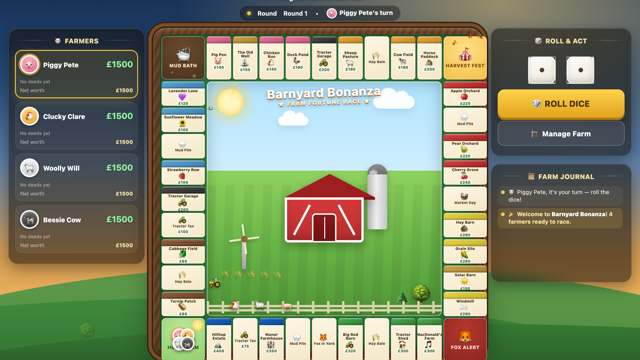
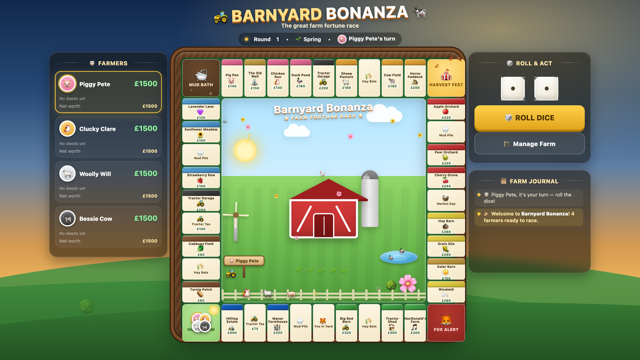
Barnyard Bonanza: seasons, a living centre, deed trading and auctions
These changes were already in the working tree at the start of this session
and are committed here on request; I did not write the diff. Summarised from
reading it:

- The centre of the board becomes a living diorama: a day/night cycle that
  advances each round with a tracking sun, moon, stars and fireflies, and
  seasons that turn every three rounds and change the ground, crops and trees
  (seasonUpdate / currentSeason / seasonChip / seasonFX).
- Owned deeds sprout in the field in the owner's colour with barns stacked on
  them as they develop, and the Barn Pot grows in front of the barn and bursts
  into coins when claimed.
- Event feedback: festival bunting, a lightning flash on the Mud Pile card,
  and a herd stampede on rent of £150+.
- Rules: declining a purchase sends it to auction, barns require a complete
  colour set with the blockers spelled out, and deeds can be traded with a
  rival for cash either way.
- README rewritten to match, cover image refreshed, and the portal blurb in
  assets/games.js updated to mention trading.

Verified only that the page loads with zero JS errors.

diff --git a/games/barnyard-bonanza/index.html b/games/barnyard-bonanza/index.html
@@ -373,6 +373,47 @@ header{position:relative;z-index:2;text-align:center;padding:14px 10px 4px;}
 @keyframes coinBurst{0%{transform:translate(0,0) scale(.4);opacity:0;}
   25%{opacity:1;}100%{transform:translate(var(--dx),var(--dy)) scale(1.15) rotate(var(--rot));opacity:0;}}
 
+/* ---------------- SEASONS ---------------- */
+.cground{position:absolute;left:0;right:0;bottom:0;height:62%;z-index:1;pointer-events:none;
+  transition:background 2.5s ease;}
+#center.season-spring .cground{background:linear-gradient(rgba(150,225,125,.30),rgba(95,185,85,.22));}
+#center.season-summer .cground{background:linear-gradient(rgba(196,228,92,.26),rgba(125,185,62,.20));}
+#center.season-autumn .cground{background:linear-gradient(rgba(216,158,68,.36),rgba(170,118,48,.30));}
+#center.season-winter .cground{background:linear-gradient(rgba(238,247,255,.60),rgba(198,220,242,.48));}
+/* buildings and trees sit above the seasonal ground tint */
+.csilo,.cbarn,.ctree,.ctree2,.cfence{z-index:2;}
+#center.season-winter .cfence{filter:brightness(1.2) saturate(.55);}
+.seasonFX{position:absolute;inset:0;z-index:5;pointer-events:none;overflow:hidden;}
+.seasonBit{position:absolute;top:-18px;font-size:12px;animation:seasonFall linear infinite;}
+@keyframes seasonFall{
+  0%{transform:translate(0,-18px) rotate(0);opacity:0;}
+  10%{opacity:.95;}
+  50%{transform:translate(20px,260px) rotate(200deg);opacity:.95;}
+  100%{transform:translate(-14px,540px) rotate(400deg);opacity:0;}}
+
+/* ---------------- HARVEST FESTIVAL ---------------- */
+.bunting{position:absolute;top:30%;left:-2%;right:-2%;height:24px;z-index:6;pointer-events:none;
+  opacity:0;transition:opacity .5s ease;}
+#center.festival .bunting{opacity:1;}
+.bunting i{position:absolute;width:0;height:0;border-left:7px solid transparent;
+  border-right:7px solid transparent;border-top:16px solid var(--c,#f5c542);
+  transform-origin:50% 0;animation:flagWave 1.7s ease-in-out infinite;}
+@keyframes flagWave{0%,100%{transform:rotate(-7deg);}50%{transform:rotate(7deg);}}
+
+/* ---------------- STAMPEDE ---------------- */
+.stampede{position:absolute;bottom:13%;left:-25%;z-index:7;white-space:nowrap;pointer-events:none;
+  animation:stampedeRun 2.3s ease-in forwards;}
+@keyframes stampedeRun{0%{left:-25%;opacity:0;}10%{opacity:1;}90%{opacity:1;}100%{left:106%;opacity:0;}}
+.stampede span{display:inline-block;font-size:22px;margin-right:7px;
+  filter:drop-shadow(0 3px 3px rgba(0,0,0,.35));animation:gallop .28s ease-in-out infinite;}
+@keyframes gallop{0%,100%{transform:translateY(0) rotate(-2deg);}50%{transform:translateY(-7px) rotate(2deg);}}
+
+/* ---------------- LIGHTNING ---------------- */
+.boltFlash{position:absolute;inset:0;z-index:7;pointer-events:none;opacity:0;
+  background:radial-gradient(120% 80% at 50% 0%,rgba(255,255,255,.95),rgba(190,215,255,.5) 60%,transparent);
+  animation:boltIn .6s ease-out forwards;}
+@keyframes boltIn{0%{opacity:0;}8%{opacity:1;}18%{opacity:.12;}30%{opacity:.8;}100%{opacity:0;}}
+
 /* the valley fills up as farmers buy and build */
 .cplots{position:absolute;inset:0;z-index:2;pointer-events:none;}
 .plot{position:absolute;transform:translateX(-50%);text-align:center;
@@ -803,6 +844,7 @@ header{position:relative;z-index:2;text-align:center;padding:14px 10px 4px;}
   <div class="logo"><span class="em">🚜</span> <span class="b">BARNYARD</span> BONANZA <span class="em">🐄</span></div>
   <div class="tagline">The great farm fortune race</div>
   <div class="statusbar"><span class="dot"></span> Round <span id="roundNum">1</span>
+    &nbsp;•&nbsp; <span id="seasonChip">🌱 Spring</span>
     &nbsp;•&nbsp; <span id="turnBanner">Farmer's turn</span></div>
 </header>
 
@@ -979,7 +1021,35 @@ const SND = {
     [523,659,784,1047,784,1047,1319].forEach((n,i)=>tone('square',n,0.24,t+i*0.16,0.2)); },
   step(){ if(muted)return; const c=ac();if(!c)return; tone('sine',420,0.05,c.currentTime,0.06); },
   thud(){ if(muted)return; const c=ac();if(!c)return; const t=c.currentTime;
-    tone('sine',120,0.14,t,0.28,60); }
+    tone('sine',120,0.14,t,0.28,60); },
+  /* filtered noise burst — the basis for thunder and hoofbeats */
+  rumble(dur,peak,fFrom,fTo,gain){ if(muted)return; const c=ac(); if(!c)return; const t=c.currentTime;
+    const buf=c.createBuffer(1,Math.floor(c.sampleRate*dur),c.sampleRate);
+    const d=buf.getChannelData(0);
+    for(let i=0;i<d.length;i++) d[i]=(Math.random()*2-1)*Math.pow(1-i/d.length,1.6);
+    const src=c.createBufferSource(); src.buffer=buf;
+    const f=c.createBiquadFilter(); f.type='lowpass';
+    f.frequency.setValueAtTime(fFrom,t); f.frequency.exponentialRampToValueAtTime(fTo,t+dur);
+    const g=c.createGain(); g.gain.setValueAtTime(0.0001,t);
+    g.gain.exponentialRampToValueAtTime(gain,t+peak);
+    g.gain.exponentialRampToValueAtTime(0.0001,t+dur);
+    src.connect(f); f.connect(g); g.connect(c.destination); src.start(t); src.stop(t+dur); },
+  thunder(){ SND.rumble(1.7,0.05,340,70,0.32); },
+  stampede(){ SND.rumble(1.9,0.35,260,110,0.22); },
+  fanfare(){ if(muted)return; const c=ac();if(!c)return; const t=c.currentTime;
+    [523,659,784,1047].forEach((n,i)=>tone('square',n,0.2,t+i*0.1,0.18));
+    tone('triangle',1319,0.35,t+0.42,0.15); },
+  rooster(){ if(muted)return; const c=ac();if(!c)return; const t=c.currentTime;
+    const o=tone('sawtooth',620,0.22,t,0.18,860); vibrato(o,14,50,t,0.22);
+    const o2=tone('sawtooth',780,0.3,t+0.24,0.16,520); vibrato(o2,10,70,t+0.24,0.3); },
+  owl(){ if(muted)return; const c=ac();if(!c)return; const t=c.currentTime;
+    const o=tone('sine',420,0.26,t,0.16,360); vibrato(o,7,14,t,0.26);
+    const o2=tone('sine',400,0.34,t+0.36,0.14,330); vibrato(o2,6,12,t+0.36,0.34); },
+  crickets(){ if(muted)return; const c=ac();if(!c)return; const t=c.currentTime;
+    for(let i=0;i<5;i++) tone('triangle',2400+Math.random()*300,0.035,t+i*0.13,0.07); },
+  birdsong(){ if(muted)return; const c=ac();if(!c)return; const t=c.currentTime;
+    tone('triangle',1800,0.07,t,0.1,2300); tone('triangle',2200,0.06,t+0.11,0.09,1700);
+    tone('triangle',2000,0.08,t+0.22,0.08,2500); }
 };
 
 
@@ -1095,6 +1165,8 @@ function buildBoard(){
     <div class="cloud c1"></div><div class="cloud c2"></div>
     <div class="cbird">🐦</div><div class="cbird b2">🐦</div>
     <div class="field"></div>
+    <div class="cground"></div>
+    <div class="bunting" id="bunting"></div>
     <div class="ccrops">🌾🌾🌾🌾🌾</div>
     <div class="cwindmill"><div class="hub"></div><div class="blades">
       <div class="blade"></div><div class="blade"></div><div class="blade"></div><div class="blade"></div>
@@ -1114,6 +1186,7 @@ function buildBoard(){
       <span class="critter c1">🐔</span><span class="critter c2">🐑</span><span class="critter c3">🐖</span>
     </div>
     <div class="cfireflies" id="cfireflies"></div>
+    <div class="seasonFX" id="seasonFX"></div>
     <div class="rainLayer" id="rainLayer"></div>
     <div class="sparkleLayer" id="sparkleLayer"></div>
     <div class="cfence"></div>`;
@@ -1271,8 +1344,93 @@ function seedFireflies(){
 function dayNightUpdate(){
   const center=document.getElementById('center'); if(!center)return;
   const phases=['time-day','time-dusk','time-night','time-dawn'];
+  const key=phases[(G_STATE.round-1)%phases.length];
+  const changed=center.dataset.phase!==key;
+  center.dataset.phase=key;
   phases.forEach(c=>center.classList.remove(c));
-  center.classList.add(phases[(G_STATE.round-1)%phases.length]);
+  center.classList.add(key);
+  seasonUpdate();
+  // the farm sounds different at each hour of the day
+  if(changed&&G_STATE.started){
+    if(key==='time-dawn')SND.rooster();
+    else if(key==='time-day')SND.birdsong();
+    else if(key==='time-dusk')SND.crickets();
+    else SND.owl();
+  }
+}
+/* ---- seasons: the field turns over every few rounds ---- */
+const SEASONS=[
+  {key:'spring',name:'Spring',ico:'🌱',crops:'🌱🌱🌱🌱🌱',tree:'🌸',tree2:'🌳',bits:['🌸','🌼'],n:10,dur:[7,11]},
+  {key:'summer',name:'Summer',ico:'☀',crops:'🌻🌻🌻🌻🌻',tree:'🌳',tree2:'🌲',bits:['🦋','✨'],n:6, dur:[9,14]},
+  {key:'autumn',name:'Autumn',ico:'🍂',crops:'🌾🌾🌾🌾🌾',tree:'🍁',tree2:'🌳',bits:['🍂','🍁'],n:12,dur:[6,10]},
+  {key:'winter',name:'Winter',ico:'❄',crops:'⛄',        tree:'🎄',tree2:'🌲',bits:['❄','🌨'],n:14,dur:[8,13]}
+];
+function currentSeason(){ return SEASONS[Math.floor((G_STATE.round-1)/3)%SEASONS.length]; }
+function seasonUpdate(){
+  const center=document.getElementById('center'); if(!center)return;
+  const s=currentSeason();
+  if(center.dataset.season===s.key)return;
+  center.dataset.season=s.key;
+  SEASONS.forEach(x=>center.classList.remove('season-'+x.key));
+  center.classList.add('season-'+s.key);
+  const crops=center.querySelector('.ccrops'); if(crops)crops.textContent=s.crops;
+  const t1=center.querySelector('.ctree'); if(t1)t1.textContent=s.tree;
+  const t2=center.querySelector('.ctree2'); if(t2)t2.textContent=s.tree2;
+  const fx=document.getElementById('seasonFX');
+  if(fx){
+    fx.innerHTML='';
+    for(let i=0;i<s.n;i++){
+      const b=document.createElement('span'); b.className='seasonBit';
+      b.textContent=s.bits[i%s.bits.length];
+      b.style.left=(Math.random()*100)+'%';
+      b.style.fontSize=(9+Math.random()*7).toFixed(1)+'px';
+      b.style.animationDuration=(s.dur[0]+Math.random()*(s.dur[1]-s.dur[0])).toFixed(1)+'s';
+      b.style.animationDelay=(-Math.random()*12).toFixed(1)+'s';
+      fx.appendChild(b);
+    }
+  }
+}
+/* ---- the Harvest Festival takes over the farm ---- */
+function festivalMode(){
+  const center=document.getElementById('center'), bun=document.getElementById('bunting');
+  if(!center||!bun)return;
+  if(!bun.children.length){
+    const cols=['#f5c542','#e8739a','#4caf50','#5ba4cf','#e8a838','#cc4444'];
+    for(let i=0;i<16;i++){
+      const f=document.createElement('i');
+      f.style.left=(i*6.4+1)+'%';
+      f.style.top=(Math.sin(i/15*Math.PI)*-10+10).toFixed(1)+'px';
+      f.style.setProperty('--c',cols[i%cols.length]);
+      f.style.animationDelay=(i*0.08)+'s';
+      bun.appendChild(f);
+    }
+  }
+  center.classList.add('festival');
+  SND.fanfare(); triggerSparkle();
+  setTimeout(()=>center.classList.remove('festival'),5200);
+}
+/* ---- a herd bolts across the farm when big money changes hands ---- */
+function triggerStampede(){
+  const center=document.getElementById('center'); if(!center)return;
+  if(center.querySelector('.stampede'))return;
+  const herd=['🐄','🐑','🐖','🐔','🐴','🐐'];
+  const row=document.createElement('div'); row.className='stampede';
+  const n=4+Math.floor(Math.random()*3);
+  for(let i=0;i<n;i++){
+    const a=document.createElement('span');
+    a.textContent=herd[Math.floor(Math.random()*herd.length)];
+    a.style.animationDelay=(i*0.07)+'s';
+    row.appendChild(a);
+  }
+  center.appendChild(row);
+  SND.stampede();
+  setTimeout(()=>row.remove(),2500);
+}
+function lightningFlash(){
+  const center=document.getElementById('center'); if(!center)return;
+  const b=document.createElement('div'); b.className='boltFlash';
+  center.appendChild(b); SND.thunder();
+  setTimeout(()=>b.remove(),700);
 }
 /* the sun (or moon) tracks across the sky as the farmers take their turns */
 function updateSky(){
@@ -1350,6 +1508,8 @@ function triggerRain(){
     layer.appendChild(d);
   }
   center.classList.add('raining');
+  setTimeout(lightningFlash,700);
+  if(Math.random()<0.6) setTimeout(lightningFlash,1900);
   setTimeout(()=>{ center.classList.remove('raining'); layer.innerHTML=''; },3200);
 }
 function triggerSparkle(){
@@ -1493,7 +1653,9 @@ function logMsg(html,cls){
 }
 function bannerUpdate(){
   const p=curP();
-  document.getElementById('roundNum').textContent='Round '+G_STATE.round;
+  document.getElementById('roundNum').textContent=G_STATE.round;
+  const chip=document.getElementById('seasonChip');
+  if(chip){ const s=currentSeason(); chip.textContent=s.ico+' '+s.name; }
   const banner=document.getElementById('turnBanner');
   if(G_STATE.over){ banner.innerHTML='🏆 Game Over'; return; }
   banner.innerHTML='<span class="tbIco" style="background:'+p.tok.grad+'">'+p.tok.ico+'</span><span class="tbName">'+escapeHtml(p.name)+"'s turn</span>";
@@ -1758,6 +1920,7 @@ function sendToJail(p){
   SND.wahwah(); positionAllTokens(); renderPlayers(); splatMud(10);
 }
 async function harvestFest(p){
+  festivalMode();
   logMsg('🎪 '+escapeHtml(p.name)+' reaches the Harvest Festival.','info');
   if(G_STATE.pot>0){
     const pot=G_STATE.pot; G_STATE.pot=0;
@@ -1776,7 +1939,7 @@ async function marketDay(p){
   }
 }
 async function foxInYard(p){
-  triggerFoxRun();
+  triggerFoxRun(); setTimeout(triggerStampede,450);
   logMsg('🦊 A fox is in the yard! '+escapeHtml(p.name)+' pays every other farmer £25.','bad');
   await showModal('<div class="mTitle">🦊 Fox in the Yard!</div><p>Chaos on the farm! Pay <b>£25</b> to each other farmer.</p>',[{label:'Pay everyone',cls:'red'}]);
   for(const o of G_STATE.players){
@@ -1861,6 +2024,7 @@ async function handleProperty(p,sq){
     if(sq.mortgaged){ logMsg('🏦 '+escapeHtml(sq.name)+' is mortgaged — no rent.','info'); return; }
     if(owner.inJail && sq.type!=='prop'){ /* utilities/garages still charge */ }
     const rent=calcRent(sq,G_STATE.lastRoll);
+    if(rent>=150)triggerStampede();
     logMsg('💵 '+escapeHtml(p.name)+' pays £'+rent+' rent to '+escapeHtml(owner.name)+'.','bad');
     await showModal('<div class="mTitle">💵 Rent Due!</div><p>'+escapeHtml(sq.name)+' belongs to <b>'+escapeHtml(owner.name)+'</b>.<br>Pay rent of <b>£'+rent+'</b>.</p>',[{label:'Pay £'+rent,cls:'red'}]);
     gainMoney(owner,rent);
@@ -2150,16 +2314,15 @@ function bumpTradeCash(delta){
   renderTrade();
 }
 function chipHTML(side,idx,on){
-  const sq=BOARD[idx];
-  const built=sq.type==='prop'&&groupIndices(sq.group).some(i=>BOARD[i].houses>0);
-  return '<button class="trChip'+(on?' on':'')+'" '+(built?'disabled':'')+
+  const sq=BOARD[idx]; const locked=deedLocked(idx);
+  return '<button class="trChip'+(on?' on':'')+'" '+(locked?'disabled title="Sell the barns on this set first"':'')+
     ' onclick="toggleTrade(\''+side+'\','+idx+')"><i style="background:'+deedColor(sq)+'"></i>'+
-    escapeHtml(sq.name)+(sq.mortgaged?' <span class="mortTag">M</span>':'')+'</button>';
+    escapeHtml(sq.name)+(locked?' 🛖':'')+(sq.mortgaged?' <span class="mortTag">M</span>':'')+'</button>';
 }
 function renderTrade(){
   const me=curP(), them=G_STATE.players[TRADE.with];
   if(!them)return;
-  const mine=tradableIdx(me.id), theirs=tradableIdx(them.id);
+  const mine=ownedIdx(me.id), theirs=ownedIdx(them.id);
   let html='<div class="trHead">🤝 Trade with '+escapeHtml(them.name)+'</div>'+
     '<div class="trSub">Swap deeds to complete a colour set — then you can build.</div><div class="trCols">'+
     '<div class="trCol"><h4>'+me.tok.ico+' You give</h4><div class="trChips">'+

diff --git a/assets/games.js b/assets/games.js
@@ -85,7 +85,7 @@ window.GAMES = [
   {
     slug: "barnyard-bonanza",
     title: "Barnyard Bonanza",
-    description: "A Monopoly-style farm fortune race — buy pastures & barns, collect rent, dodge Fox Alerts, hot-seat for 2-4 farmers.",
+    description: "A Monopoly-style farm fortune race — buy pastures, trade deeds, raise barns and dodge Fox Alerts. Hot-seat for 2-4 farmers.",
     src: "games/barnyard-bonanza/index.html",
     cover: "games/barnyard-bonanza/cover.png",
     tag: "board"

diff --git a/games/barnyard-bonanza/README.md b/games/barnyard-bonanza/README.md
@@ -12,13 +12,52 @@ Open [`index.html`](index.html) directly, or play it from the portal at
 - **2–4 farmers**, hot-seat on one device — name each farmer before starting.
 - **Roll the dice** to move around the board, buying unowned properties (pastures, barns,
   orchards, farm buildings) or paying rent to the farmer who owns the space you land on.
-- **Manage Farm** — build up owned properties, view your deeds and net worth.
+  Decline a purchase and it goes to auction.
+- **Manage Farm** — build barns, sell buildings, mortgage and unmortgage deeds. Barns can
+  only go up on a **complete colour set**; the screen shows your set progress and spells out
+  exactly what's blocking each build.
+- **🤝 Trade Deeds** — offer any of your deeds (plus or minus cash) to a rival, hand them the
+  device, and they accept or decline. This is how you finish a colour set and start building.
+  Deeds in a set that already has barns are locked until the buildings are sold.
 - **Event spaces** — Harvest Fest, Fox Alert, Mud Bath and Mud Pile spaces trigger random
-  farm events, bonuses and setbacks.
+  farm events, bonuses and setbacks. Taxes and fines feed the **Barn Pot**, which sits in the
+  middle of the board and is claimed by whoever lands on the Harvest Festival.
 - **Win condition** — bankrupt all rival farmers, or finish with the highest net worth
   when the land runs out.
 
+## The farm in the middle
+
+The centre of the board is a living diorama rather than dead space:
+
+- A **day/night cycle** advances each round (day → dusk → night → dawn) with a moon,
+  stars and fireflies after dark; the sun tracks across the sky as farmers take their turns.
+  Each hour has its own sound — a rooster at dawn, birdsong by day, crickets at dusk, an owl
+  at night.
+- **Seasons turn every three rounds** (shown in the status bar). Spring brings blossom and
+  seedlings, summer sunflowers and butterflies, autumn falling leaves and ripe wheat, winter
+  a frosted field, snowfall and a snowman. The ground, crops and trees all change with it.
+- Every deed you own **sprouts in the field**, glowing in its owner's colour, with tiny barns
+  stacked on it as it's developed — the valley visibly fills up as the game goes on.
+- The **Barn Pot** grows in front of the barn and bursts into coins when it's claimed.
+- A signpost shows whose turn it is, the barn doors swing open when someone passes the Farm
+  Gate, and a tractor, windmill, weather vane, pond ducks and wandering livestock keep moving.
+
+### Things that happen
+
+| Event | What you see |
+| --- | --- |
+| Mud Pile card | A rainstorm rolls in, with lightning and thunder |
+| Hay Bale card | A golden sparkle burst over the farm |
+| Harvest Festival | Bunting strings across the farm, a fanfare, and the pot bursts into coins |
+| Rent of £150+ | A herd stampedes across the field |
+| Fox Alert / Fox in Yard | A fox streaks across the yard and scatters the animals |
+| Doubles | A "DOUBLES!" flash on the dice tray |
+| Sent to the pen | Mud splatters across the Mud Bath corner |
+| Paying a rival | A coin physically flies between the two farmer cards |
+| Winning | Confetti and fireworks |
+
 ## Controls
 
-All mouse/tap driven — click **Roll Dice** to take your turn, **Manage Farm** to view and
-upgrade your holdings, and use the on-screen prompts to buy properties or respond to events.
+All mouse/tap driven — click **Roll Dice** to take your turn, **Manage Farm** to build and
+mortgage, **Trade Deeds** to deal with a rival, and use the on-screen prompts to buy
+properties or respond to events. The whole board scales to fit your window.
